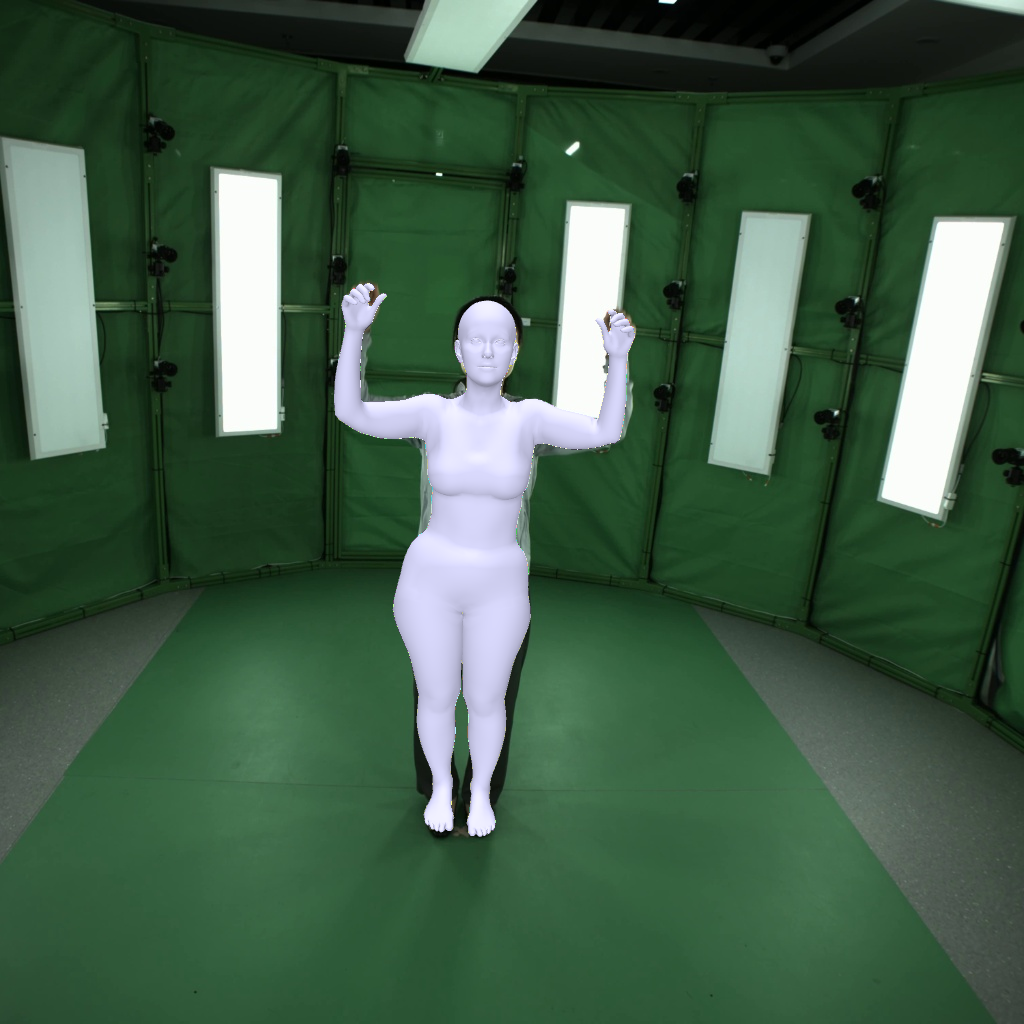
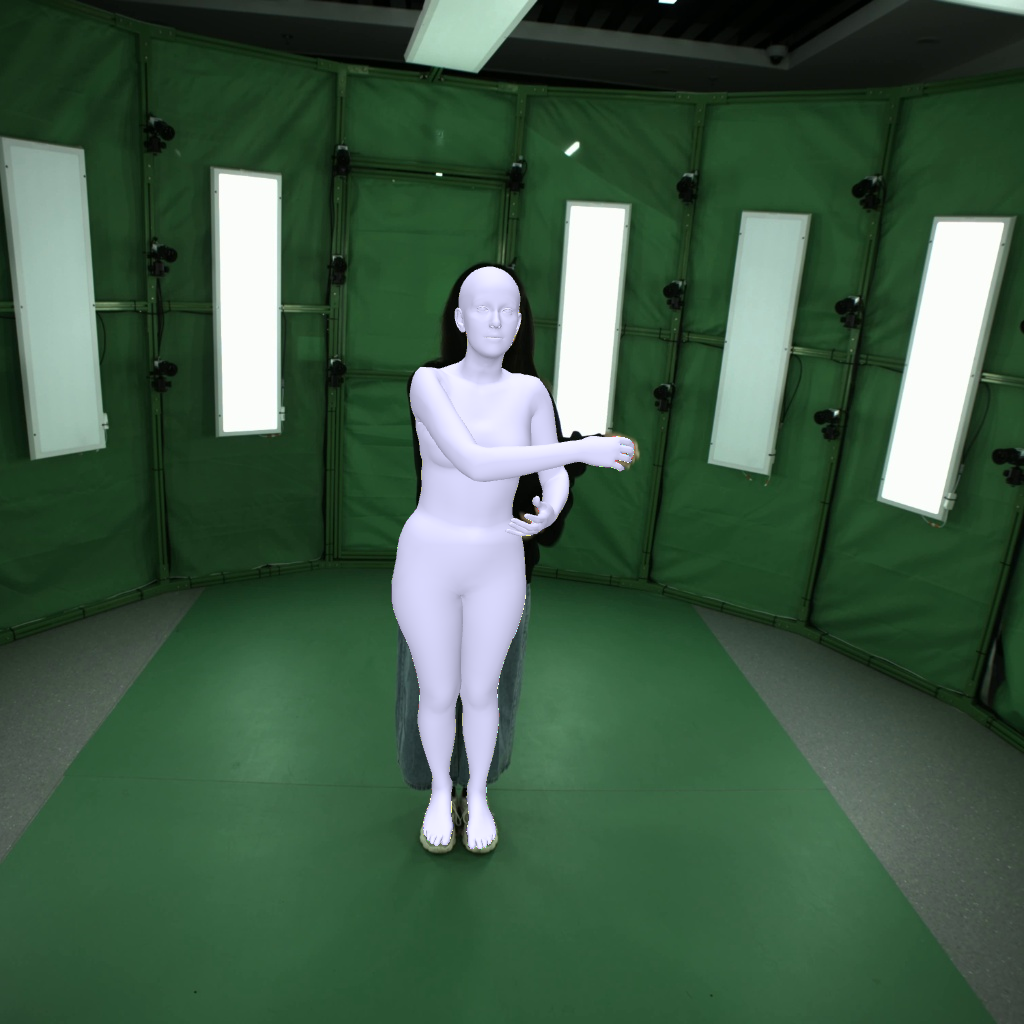
update smplx visualization scripts

Changed region(s): [[0.3125, 0.25, 0.625, 0.8438], [0.9688, 0.625, 1.0, 0.6562]]

diff --git a/smplx_visualization/vis_smplx.py b/smplx_visualization/vis_smplx.py
@@ -6,16 +6,16 @@ import cv2
 # Firstly, please install dependencies like smplx, opencv-python, pyrender, numpy, torch, trimesh, .etc
 
 
-# Download SMPLX_NEUTRAL.pkl(about 518 mb) from https://github.com/vchoutas/smplx#downloading-the-model and place it under the path './assets/smplx'
+# Download SMPLX_NEUTRAL.npz from https://github.com/vchoutas/smplx#downloading-the-model and place it under the path './assets/smplx'
 smplx_model = smplx.SMPLX(model_path = 'assets/smplx', gender = 'neutral', use_pca = True, num_pca_comps = 6, flat_hand_mean = True, batch_size = 1) # Note that different from MVHumanNet smplx saved format, MVHumanNet++ smplx follows the official MPI format.
 
 
-img_path = f"./data/100831_0250_cam_00_img.jpg"
-cam_path = f"./data/100831_cam_00_camera.npz"
-frame_id = img_path.split("_")[-4] # 0250
+img_path = f"./data/100842_0675_cam_00_img.jpg"
+cam_path = f"./data/100842_cam_00_camera.npz"
+frame_id = img_path.split("_")[-4] # 0675
 
 # ================================================================================
-smplx_file = np.load(f"./data/100831_smplx_params_all.npz") # corresponds to the smplx_params.npz file
+smplx_file = np.load(f"./data/100842_smplx_params_all.npz") # corresponds to the smplx_params.npz file
 smplx_data = {k: v for k, v in smplx_file.items()}
 smplx_id = int(frame_id) // 25 - 1
 out = smplx_model.forward(betas = torch.from_numpy(smplx_data['betas'][0][None]),
@@ -26,7 +26,7 @@ out = smplx_model.forward(betas = torch.from_numpy(smplx_data['betas'][0][None])
                           right_hand_pose = torch.from_numpy(smplx_data['right_hand_pose'][smplx_id][None]))
 
 # # # ================= or load the individual smplx parameters =====================
-# smplx_file = f"./data/100831_0250_smplx.npz" # corresponds to the 0250.npz file in 'smplx_params' folder
+# smplx_file = f"./data/100842_0675_smplx.npz" # corresponds to the 0675.npz file in 'smplx_params' folder
 # smplx_data = np.load(smplx_file, allow_pickle=True)
 # out = smplx_model.forward(betas = torch.from_numpy(smplx_data['betas']),
 #                             global_orient = torch.from_numpy(smplx_data['global_orient']),
